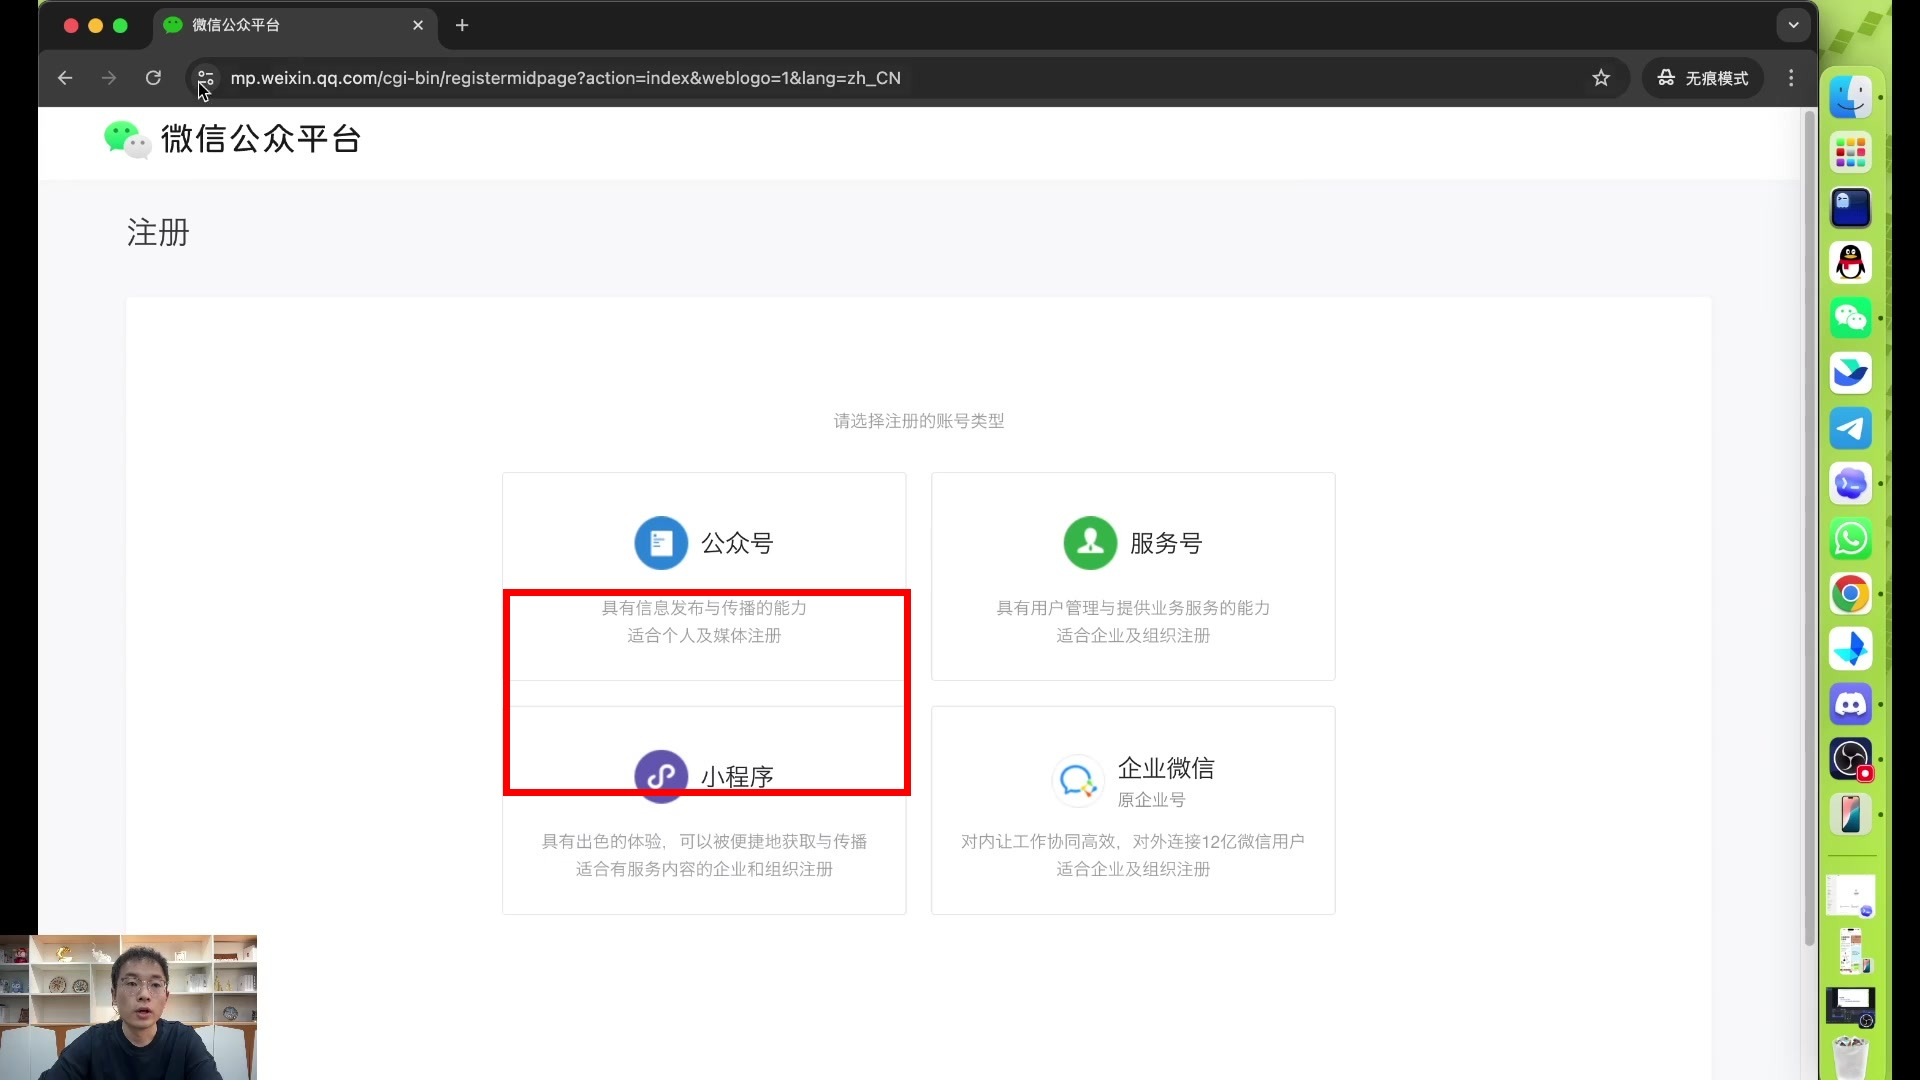
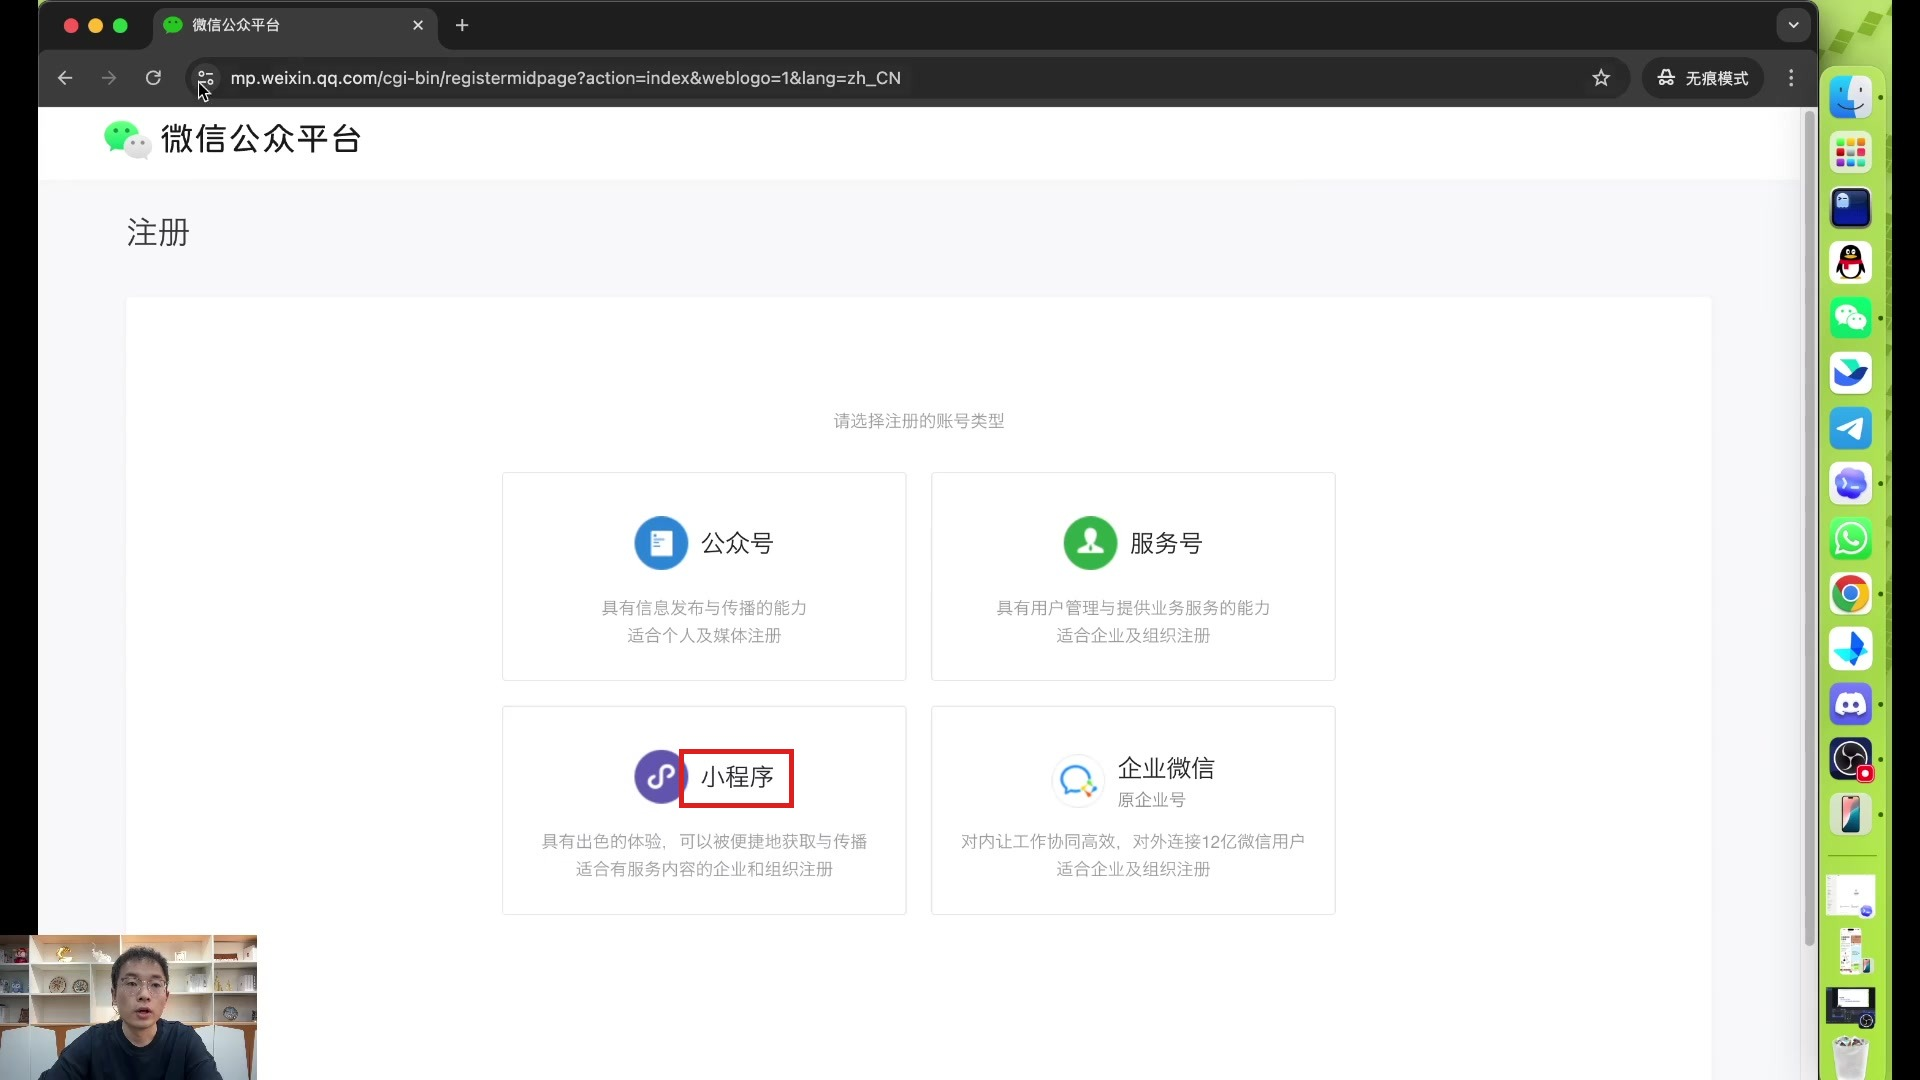
Refine step boxes with OCR-based control targeting

Changed region(s): [[0.25, 0.5194, 0.5, 0.7639]]

diff --git a/scripts/vision_ocr.swift b/scripts/vision_ocr.swift
@@ -1,0 +1,43 @@
+import Foundation
+import Vision
+import AppKit
+
+guard CommandLine.arguments.count >= 2 else {
+    fputs("usage: swift vision_ocr.swift <image-path>\n", stderr)
+    exit(2)
+}
+
+let path = CommandLine.arguments[1]
+let url = URL(fileURLWithPath: path)
+guard let image = NSImage(contentsOf: url) else {
+    fputs("cannot load image\n", stderr)
+    exit(1)
+}
+
+guard let tiff = image.tiffRepresentation,
+      let bitmap = NSBitmapImageRep(data: tiff),
+      let cgImage = bitmap.cgImage else {
+    fputs("cannot make cgimage\n", stderr)
+    exit(1)
+}
+
+let request = VNRecognizeTextRequest()
+request.recognitionLevel = .accurate
+request.usesLanguageCorrection = false
+request.recognitionLanguages = ["zh-Hans", "en-US"]
+
+let handler = VNImageRequestHandler(cgImage: cgImage, options: [:])
+try handler.perform([request])
+
+let width = CGFloat(cgImage.width)
+let height = CGFloat(cgImage.height)
+
+for observation in request.results ?? [] {
+    guard let top = observation.topCandidates(1).first else { continue }
+    let b = observation.boundingBox
+    let x = b.minX * width
+    let y = (1 - b.maxY) * height
+    let w = b.width * width
+    let h = b.height * height
+    print("\(top.string)\t\(Int(x))\t\(Int(y))\t\(Int(w))\t\(Int(h))")
+}

diff --git a/scripts/refine_doc_step_boxes.py b/scripts/refine_doc_step_boxes.py
@@ -1,0 +1,224 @@
+#!/usr/bin/env python3
+from __future__ import annotations
+
+import argparse
+import re
+import shutil
+import subprocess
+from dataclasses import dataclass
+from pathlib import Path
+
+from PIL import Image, ImageDraw
+
+
+OCR_SWIFT = Path(__file__).with_name("vision_ocr.swift")
+IMAGE_RE = re.compile(r"!\[[^\]]*\]\(([^)]+)\)")
+
+
+@dataclass
+class OcrBox:
+    text: str
+    x: int
+    y: int
+    w: int
+    h: int
+
+    @property
+    def x2(self) -> int:
+        return self.x + self.w
+
+    @property
+    def y2(self) -> int:
+        return self.y + self.h
+
+    @property
+    def cx(self) -> float:
+        return self.x + self.w / 2
+
+    @property
+    def cy(self) -> float:
+        return self.y + self.h / 2
+
+
+@dataclass
+class StepRule:
+    target_labels: list[str]
+    context_labels: list[str]
+    region: str
+    allow_infer_action_column: bool = False
+    allow_plain_copy: bool = True
+
+
+STEP_RULES: dict[str, StepRule] = {
+    "frame_667_boxed.jpg": StepRule(["小程序"], [], "center"),
+    "frame_703_boxed.jpg": StepRule(["创建测试号", "测试号"], [], "right"),
+    "frame_816_boxed.jpg": StepRule(["AI小程序成长计划"], [], "left"),
+    "frame_925_boxed.jpg": StepRule(["领取"], [], "right"),
+    "frame_964_boxed.jpg": StepRule(["一键创建"], [], "right"),
+    "frame_1019_boxed.jpg": StepRule(["修改"], ["小程序名称"], "right", allow_infer_action_column=True),
+    "frame_1215_boxed.jpg": StepRule([], [], "center"),
+    "frame_1308_boxed.jpg": StepRule(["下一步"], [], "center"),
+    "frame_1388_boxed.jpg": StepRule(["详情"], ["服务类目"], "right", allow_infer_action_column=True),
+    "frame_1421_boxed.jpg": StepRule([], [], "center"),
+    "frame_1657_boxed.jpg": StepRule(["版本管理"], [], "left"),
+    "frame_1686_boxed.jpg": StepRule(["成员管理"], [], "left"),
+    "frame_1694_boxed.jpg": StepRule(["AppID", "开发管理"], [], "left"),
+    "frame_1786_boxed.jpg": StepRule(["广告管理"], [], "center"),
+}
+
+
+def normalize_text(text: str) -> str:
+    cleaned = re.sub(r"[\s`'\"“”‘’·•,，。:：;；()（）<>《》/\\|+_-]", "", text)
+    return cleaned.lower()
+
+
+def load_ocr(image_path: Path) -> list[OcrBox]:
+    result = subprocess.run(
+        ["swift", str(OCR_SWIFT), str(image_path)],
+        capture_output=True,
+        text=True,
+        check=True,
+    )
+    boxes: list[OcrBox] = []
+    for line in result.stdout.splitlines():
+        parts = line.split("\t")
+        if len(parts) != 5:
+            continue
+        text, x, y, w, h = parts
+        boxes.append(OcrBox(text=text, x=int(x), y=int(y), w=int(w), h=int(h)))
+    return boxes
+
+
+def region_score(box: OcrBox, region: str, width: int) -> float:
+    if region == "left":
+        return 1.0 - (box.cx / width)
+    if region == "right":
+        return box.cx / width
+    return 1.0 - abs(box.cx - width / 2) / max(width / 2, 1)
+
+
+def box_match_score(box: OcrBox, label: str) -> float:
+    target = normalize_text(label)
+    text = normalize_text(box.text)
+    if not target or not text:
+        return 0.0
+    if text == target:
+        return 3.0
+    if target in text:
+        return 2.4
+    if text in target:
+        return 1.8
+    return 0.0
+
+
+def select_context_box(boxes: list[OcrBox], labels: list[str], image_width: int) -> OcrBox | None:
+    best: tuple[float, OcrBox] | None = None
+    for box in boxes:
+        score = max((box_match_score(box, label) for label in labels), default=0.0)
+        if score <= 0:
+            continue
+        score += region_score(box, "left", image_width) * 0.2
+        if best is None or score > best[0]:
+            best = (score, box)
+    return best[1] if best else None
+
+
+def infer_action_column_box(boxes: list[OcrBox], context_box: OcrBox, image_width: int) -> tuple[int, int, int, int] | None:
+    action_boxes = [box for box in boxes if normalize_text(box.text) in {"修改", "下载", "详情"} and box.cx > image_width * 0.7]
+    if not action_boxes:
+        return None
+    avg_x = int(sum(box.x for box in action_boxes) / len(action_boxes))
+    avg_w = int(sum(box.w for box in action_boxes) / len(action_boxes))
+    avg_h = int(sum(box.h for box in action_boxes) / len(action_boxes))
+    y = int(context_box.cy - avg_h / 2 - 6)
+    return (avg_x - 10, y, avg_w + 20, avg_h + 12)
+
+
+def select_target_box(rule: StepRule, boxes: list[OcrBox], image_size: tuple[int, int]) -> tuple[int, int, int, int] | None:
+    width, _ = image_size
+    context_box = select_context_box(boxes, rule.context_labels, width) if rule.context_labels else None
+    candidates: list[tuple[float, OcrBox]] = []
+    for box in boxes:
+        target_score = max((box_match_score(box, label) for label in rule.target_labels), default=0.0)
+        if target_score <= 0:
+            continue
+        score = target_score + region_score(box, rule.region, width) * 0.6
+        if context_box is not None:
+            distance = abs(box.cy - context_box.cy)
+            score += max(0.0, 1.6 - distance / 180.0)
+        candidates.append((score, box))
+
+    if candidates:
+        _, chosen = max(candidates, key=lambda item: item[0])
+        pad_x = 18 if chosen.w < 120 else 14
+        pad_y = 12 if chosen.h < 40 else 10
+        if rule.region == "left":
+            pad_x = 24
+        return (
+            max(0, chosen.x - pad_x),
+            max(0, chosen.y - pad_y),
+            chosen.w + pad_x * 2,
+            chosen.h + pad_y * 2,
+        )
+
+    if context_box is not None and rule.allow_infer_action_column:
+        return infer_action_column_box(boxes, context_box, width)
+    return None
+
+
+def resolve_raw_source(image_path: Path) -> Path:
+    if "_boxed" not in image_path.name:
+        return image_path
+    candidate = image_path.parent.parent / "frames" / image_path.name.replace("_boxed", "")
+    return candidate if candidate.exists() else image_path
+
+
+def draw_box(src: Path, dst: Path, bbox: tuple[int, int, int, int] | None) -> None:
+    img = Image.open(src).convert("RGB")
+    if bbox is not None:
+        draw = ImageDraw.Draw(img)
+        x, y, w, h = bbox
+        for offset in range(4):
+            draw.rectangle((x - offset, y - offset, x + w + offset, y + h + offset), outline=(220, 32, 32), width=2)
+    dst.parent.mkdir(parents=True, exist_ok=True)
+    img.save(dst, quality=92)
+
+
+def iter_image_refs(markdown_path: Path) -> list[Path]:
+    refs: list[Path] = []
+    text = markdown_path.read_text(encoding="utf-8")
+    for match in IMAGE_RE.finditer(text):
+        path = Path(match.group(1))
+        if path.exists():
+            refs.append(path)
+    return refs
+
+
+def main() -> int:
+    parser = argparse.ArgumentParser(description="Refine teaching-doc screenshot boxes with OCR-driven control targeting.")
+    parser.add_argument("--markdown-file", required=True)
+    args = parser.parse_args()
+
+    markdown_path = Path(args.markdown_file).resolve()
+    image_paths = iter_image_refs(markdown_path)
+    for image_path in image_paths:
+        rule = STEP_RULES.get(image_path.name)
+        if rule is None:
+            continue
+        raw_source = resolve_raw_source(image_path)
+        if not raw_source.exists():
+            continue
+        if not rule.target_labels:
+            shutil.copy2(raw_source, image_path)
+            continue
+        boxes = load_ocr(raw_source)
+        bbox = select_target_box(rule, boxes, Image.open(raw_source).size)
+        if bbox is None and rule.allow_plain_copy:
+            shutil.copy2(raw_source, image_path)
+            continue
+        draw_box(raw_source, image_path, bbox)
+    return 0
+
+
+if __name__ == "__main__":
+    raise SystemExit(main())

diff --git a/video-teaching-doc-skill/references/heuristics.md b/video-teaching-doc-skill/references/heuristics.md
@@ -63,6 +63,30 @@ High confidence click markers usually combine multiple signals:
 
 If only one weak signal exists, keep the step but mark the click target as uncertain.
 
+## Click Target Priority
+
+Always decide **which exact control should be boxed** before drawing any red box.
+
+Use this priority order:
+
+1. if the cursor is clearly visible, box the clickable control under the cursor tip
+2. if the cursor is weak or absent, but the UI label is identifiable, box that exact button, menu item, field, or link
+3. if there are multiple controls with the same label, use row, card, modal, or nearby context to disambiguate
+4. if the frame does not uniquely identify the control, mark the frame as unsuitable and switch frames instead of guessing
+
+Do not treat the red box as a generic "related area" marker. It must point to the actual control used in the step.
+
+## Hard Annotation Rules
+
+- The boxed object must be the exact control the learner should click, select, input into, or confirm in this step.
+- The box must be tight to the control boundary and must not cover large empty space.
+- For text buttons such as `修改`, `下载`, `保存`, or `下一步`, box only the clickable text button area.
+- For left-side menus, box only the menu item itself, not the whole menu column.
+- For fields or links inside modals, box the field or link, not blank space near the modal title.
+- When identical labels appear multiple times, combine OCR with row-level or panel-level context before boxing.
+- If cursor location conflicts with semantic guess, prefer the control directly under the cursor tip.
+- If the current frame cannot support a unique control decision, return `需要换一帧` rather than drawing a speculative box.
+
 ## Ordering For Semi-Automatic Stage
 
 Use this order by default:
